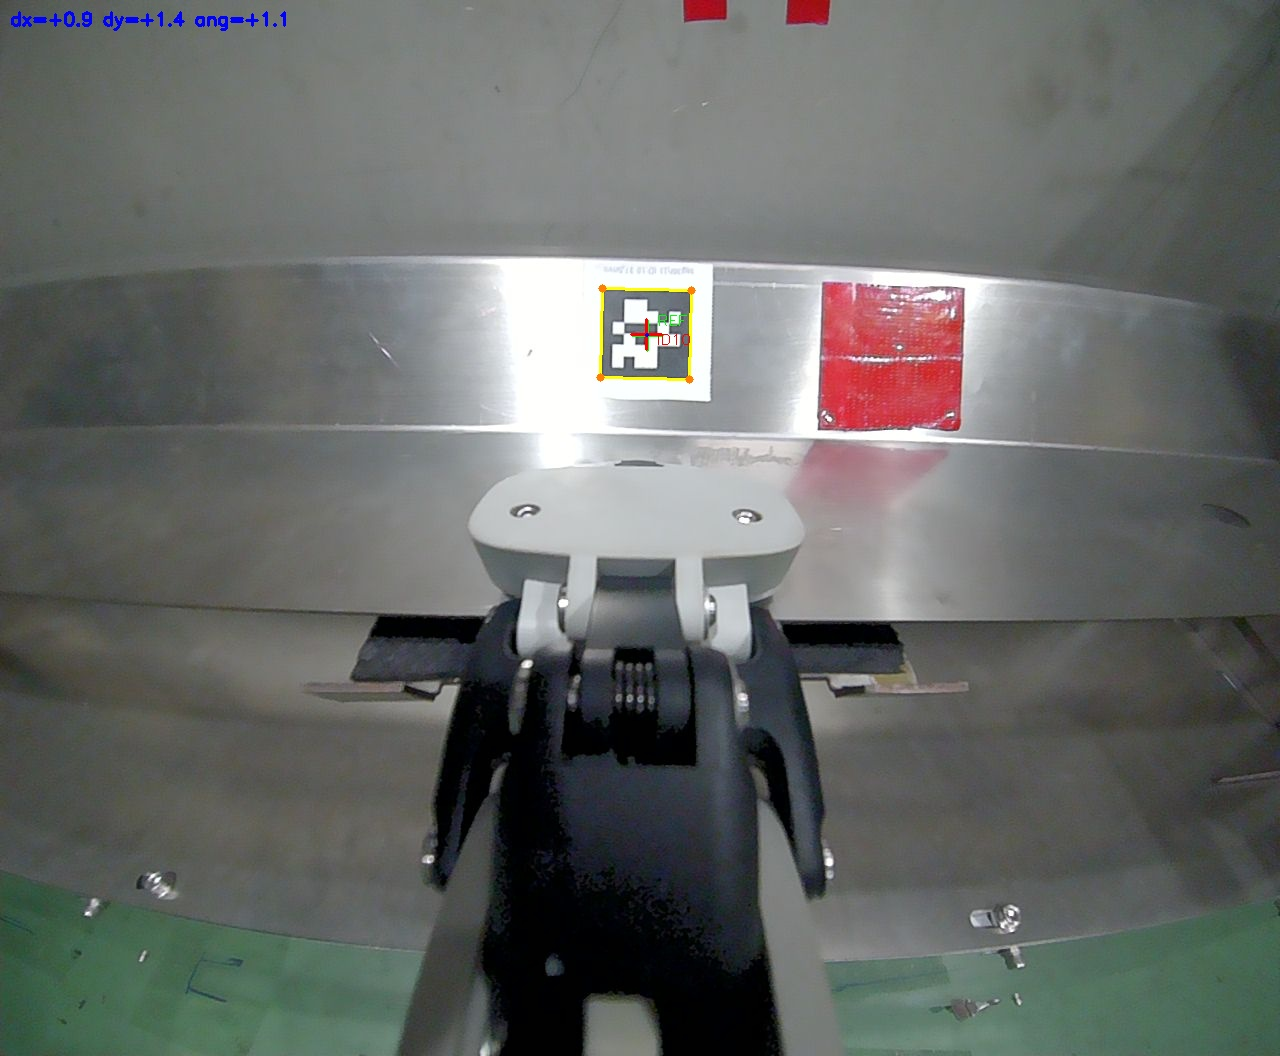
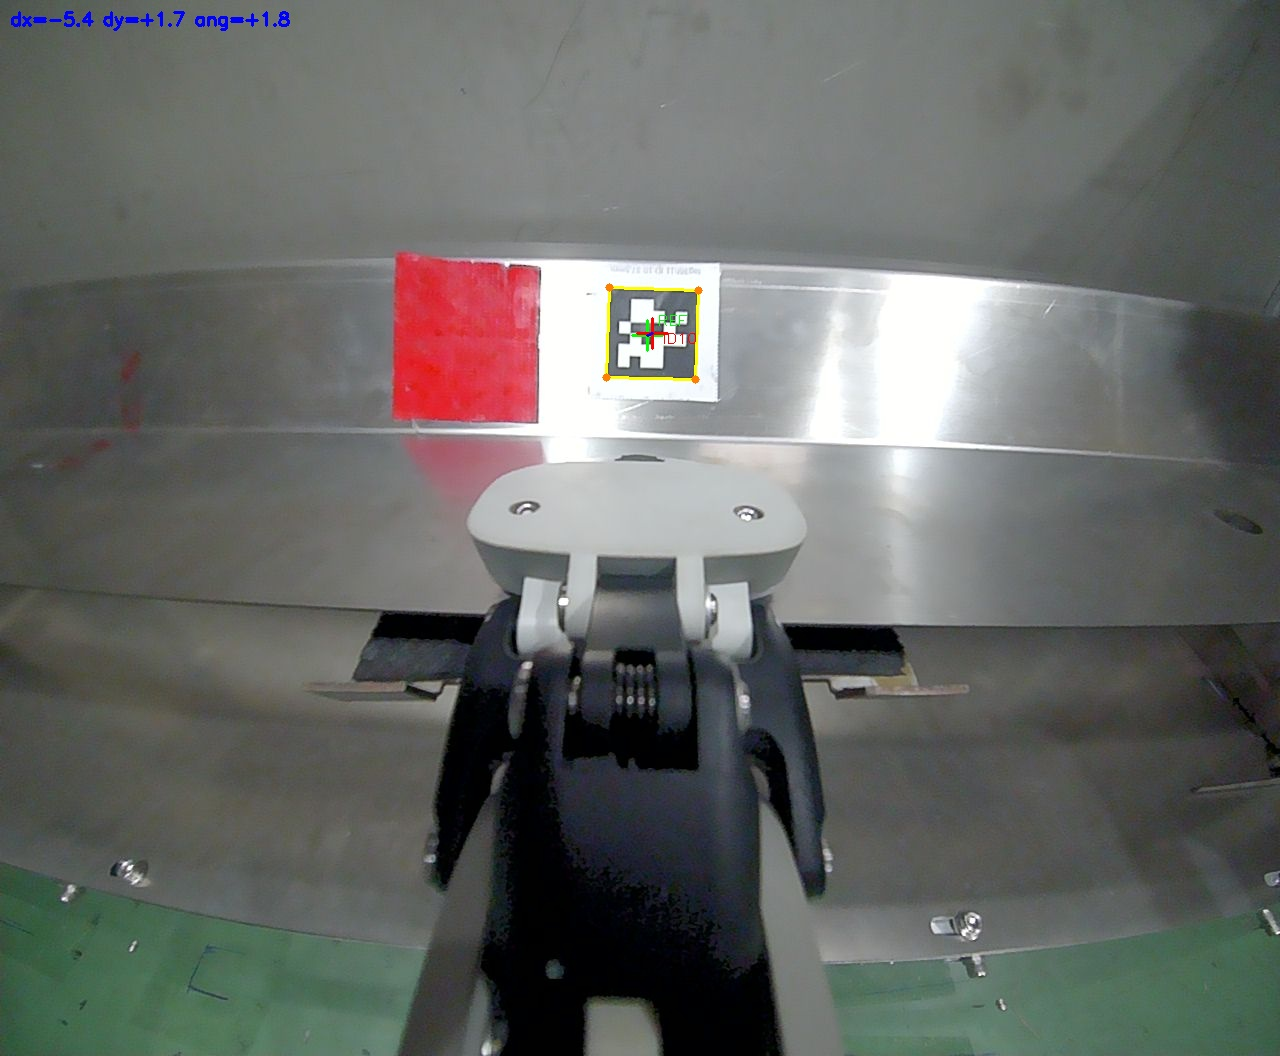
ADFADF

diff --git a/runtime/workfllow.py b/runtime/workfllow.py
@@ -29,8 +29,8 @@ def tape_detection(roi):
         if result == 0:
             break
         else:
-            # playMp3("/PLACE_ENABLE.mp3")
-            G2.TTS("ワークが取り除かれるのを待機；等待工件拿开")
+            playMp3("PRODUCT_UNTAKEN.mp3")
+            # G2.TTS("ワークが取り除かれるのを待機；等待工件拿开")
             time.sleep(5)
     playMp3("/PLACE_ENABLE.mp3")
 
@@ -152,15 +152,14 @@ def get_work():
 
         jj="ref_id11_20260828_152155.json"
         if result == 0:
-            playMp3("EMPTY.mp3")
             # G2.TTS("ワークなし；无工件")
             break
         elif result == 1:
-            playMp3("BIG.mp3")
+            playMp3("BIG_0904.mp3")
             # G2.TTS("これは大きな部品だ；这是大工件")
             jj="ref_id10_20260828_152036.json"
         elif result == 2:
-            playMp3("SMALL.mp3")
+            playMp3("SMALL_0904.mp3")
             # G2.TTS("これは小さな部品です；这是小工件")
 
         pose = f'r{i}'
@@ -173,12 +172,11 @@ def get_work():
             G2.REL({"x": 0.12}) 
 
         G2.GRIPPER({"left": -0.7, "right": -0.4})
-        # 在这里纠偏 (AprilTag 36h11, 39mm, 右手腕相机)
         tag_correct(f"/data/wxf/wxf0721/runtime/tag_ref/{jj}", G2)
         G2.OFFSET({"rz": 20})
         G2.GRIPPER({"left": -0, "right": -0})
         # time.sleep(0.5)
-        G2.OFFSET({"rz": 10})
+        G2.OFFSET({"rz": 20})
         G2.REL({"x": -1}) 
         G2.WBC("A3")
         time.sleep(1)
@@ -186,22 +184,22 @@ def get_work():
         G2.WBC("A5")
 
         if result == 1:
-            put.putBig(G2)
+            put.putBig(G2, befo_place=lambda: tape_detection((290,168,287,250)))
         elif result == 2:
-            put.putSmall(G2)
+            put.putSmall(G2, befo_place=lambda: tape_detection((226,188,241,112)))
         else:
-            playMp3("EMPTY.mp3")
             break
         
         # G2.ARMS("AWait")
         # G2.REL({"x": -0.5})   
+
 
 def release_car():
     G2.WBC("Wdown2")
     G2.GO(MAP_POS_GetWorkpiece)
     G2.WBC("Wdown2")
     G2.GRIPPER({"left": -0.75, "right": -0.75})
-    pt("/data/wxf/wxf0721/runtime/references-tag/reference_id1_id2.json", G2=G2)#max_rounds:4
+    pt("/data/wxf/wxf0721/runtime/references-tag/reference_id1_id2.json", G2=G2,max_rounds=2)#max_rounds:4
     G2.ARMS("car3")
     G2.ARMS("car3.1")
     G2.ARMS("car5")
@@ -217,14 +215,13 @@ def release_car():
     # G2.REL({"x": -0.5}) 
 
 def main():
-    playMp3("START.mp3 ")
+    playMp3("START.mp3")
     G2.WBC("Wdown2")
     G2.GO(MAP_POS_Home)
     G2.WBC("Wdown2")
-    playMp3("GRAB_OUT.mp3")
     car_move()
     get_work()
-    playMp3("EMPTY.mp3")
+    playMp3("ALL_DONE.mp3")
     release_car()
     G2.WBC("Wdown2")
     G2.GO(MAP_POS_Home)

diff --git a/runtime/put.py b/runtime/put.py
@@ -3,7 +3,7 @@ from positioning import positioning as pt
 import paho.mqtt.client as mqtt
 import time
 
-def putBig(G2):
+def putBig(G2, befo_place=None):
     G2.GO(8)
     # time.sleep(1)
     G2.WBC("xx")
@@ -13,7 +13,8 @@ def putBig(G2):
     G2.WBC("xx")
     # pt("/data/wxf/wxf0721/runtime/references-tag/ref_id3_id4_20260901_133511.json",G2=G2,max_rounds=9)
     G2.GO(7)
-
+    if befo_place :
+        befo_place()
     G2.ARMS("big1")
     G2.ARMS("big2")
     G2.ARMS("big3")
@@ -23,9 +24,9 @@ def putBig(G2):
     G2.OFFSET({"rz": -80})
     G2.GRIPPER({"right": -0.15})
     G2.OFFSET({"rz": -25})
-    G2.OFFSET({"rx": -45, "ry": +20}) #补偿
+    G2.OFFSET({"rx": -55, "ry": +20}) #补偿
     G2.OFFSET({"ry": +45})   #左右扯
-    G2.OFFSET({"ry": -45}) 
+    G2.OFFSET({"ry": -45-40}) 
     G2.GRIPPER({"right": -0.74})
     G2.OFFSET({"rz": -49})
     G2.OFFSET({"rx": -120})
@@ -33,7 +34,7 @@ def putBig(G2):
     G2.GO(8)
     G2.GO(2)
 
-def putSmall(G2):
+def putSmall(G2, befo_place=None):
     G2.WBC("xx")    
     time.sleep(1)
     # G2.GO(10)
@@ -42,6 +43,8 @@ def putSmall(G2):
     G2.GO(10)
     G2.WBC("xx")    
     G2.GO(9)
+    if befo_place :
+        befo_place()
     G2.ARMS("big1")
     G2.ARMS("big2")
     G2.ARMS("big3")
@@ -57,7 +60,7 @@ def putSmall(G2):
     G2.GRIPPER({"right": -0.3})
     G2.OFFSET({"rz": -8})     
     G2.OFFSET({"ry": +40})   #左右扯
-    G2.OFFSET({"ry": -40})     
+    G2.OFFSET({"ry": -40-35})     
   
     # G2.OFFSET({"rz": -20})  
     

diff --git a/runtime/main.py b/runtime/main.py
@@ -4,6 +4,11 @@ from capture import capture_head_color
 from positioning import positioning as pt
 
 G2 = Minth.G2()
+G2.GO(8)
+G2.WBC("xx")
+# pt("/data/wxf/wxf0721/runtime/references-tag/ref_id3_id4_20260901_133511.json",G2=G2,max_rounds=9)
+G2.GO(7)
+
 # positioning("/data/wxf/wxf0721/runtime/references-tag/ref_id3_id4_20260901_133511.json",G2=G2)
 # img_path = capture_head_color(G2)
 # print(img_path)
@@ -12,7 +17,7 @@ G2 = Minth.G2()
 # G2.GO(4)
 # stref="/data/wxf/wxf0721/runtime/references-tag/ref_id3_id4_20260901_133511.json"
 # stref="/data/wxf/wxf0721/runtime/references-tag/ref_id5_id6_dun.json"
-pt("/data/wxf/wxf0721/runtime/references-tag/ref_id3_id4_20260901_133511.json",G2=G2,max_rounds=9)
+# pt("/data/wxf/wxf0721/runtime/references-tag/ref_id3_id4_20260901_133511.json",G2=G2,max_rounds=9)
 
 
 # G2.GRIPPER({"left": -0.7, "right": -0.4})

diff --git a/runtime/positioning.py b/runtime/positioning.py
@@ -35,8 +35,8 @@ DEFAULT_REF_JSON = os.path.join(BASE_DIR, "references-tag", "reference_latest.js
 RESIDUAL_JSON = os.path.join(BASE_DIR, "positioning_residual.json")
 
 # ============ 容差 ============
-YAW_TOL_DEG = 0.8          # 旋转容差
-TRANS_TOL_MM = 5.0        # 平移容差
+YAW_TOL_DEG = 1          # 旋转容差
+TRANS_TOL_MM = 8.0        # 平移容差
 FAIL_REPROJ_ERR_PX = 1.5   # 重投影超此值不执行
 
 # ============ 纠偏增益 (补偿实际移动量与指令的偏差) ============
